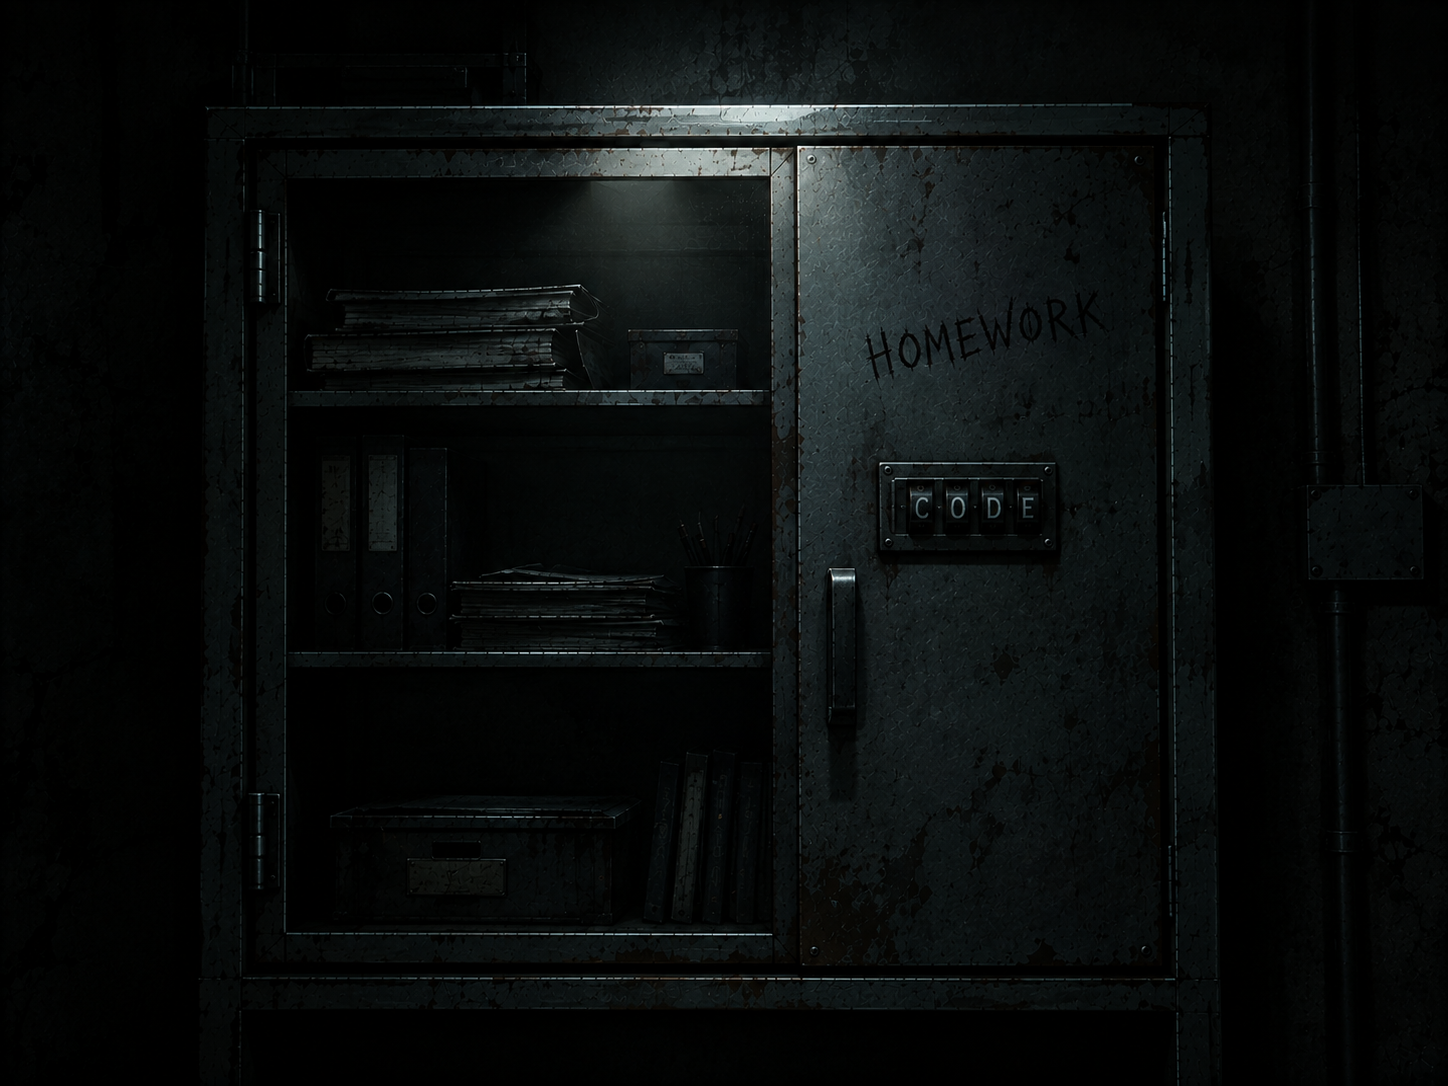
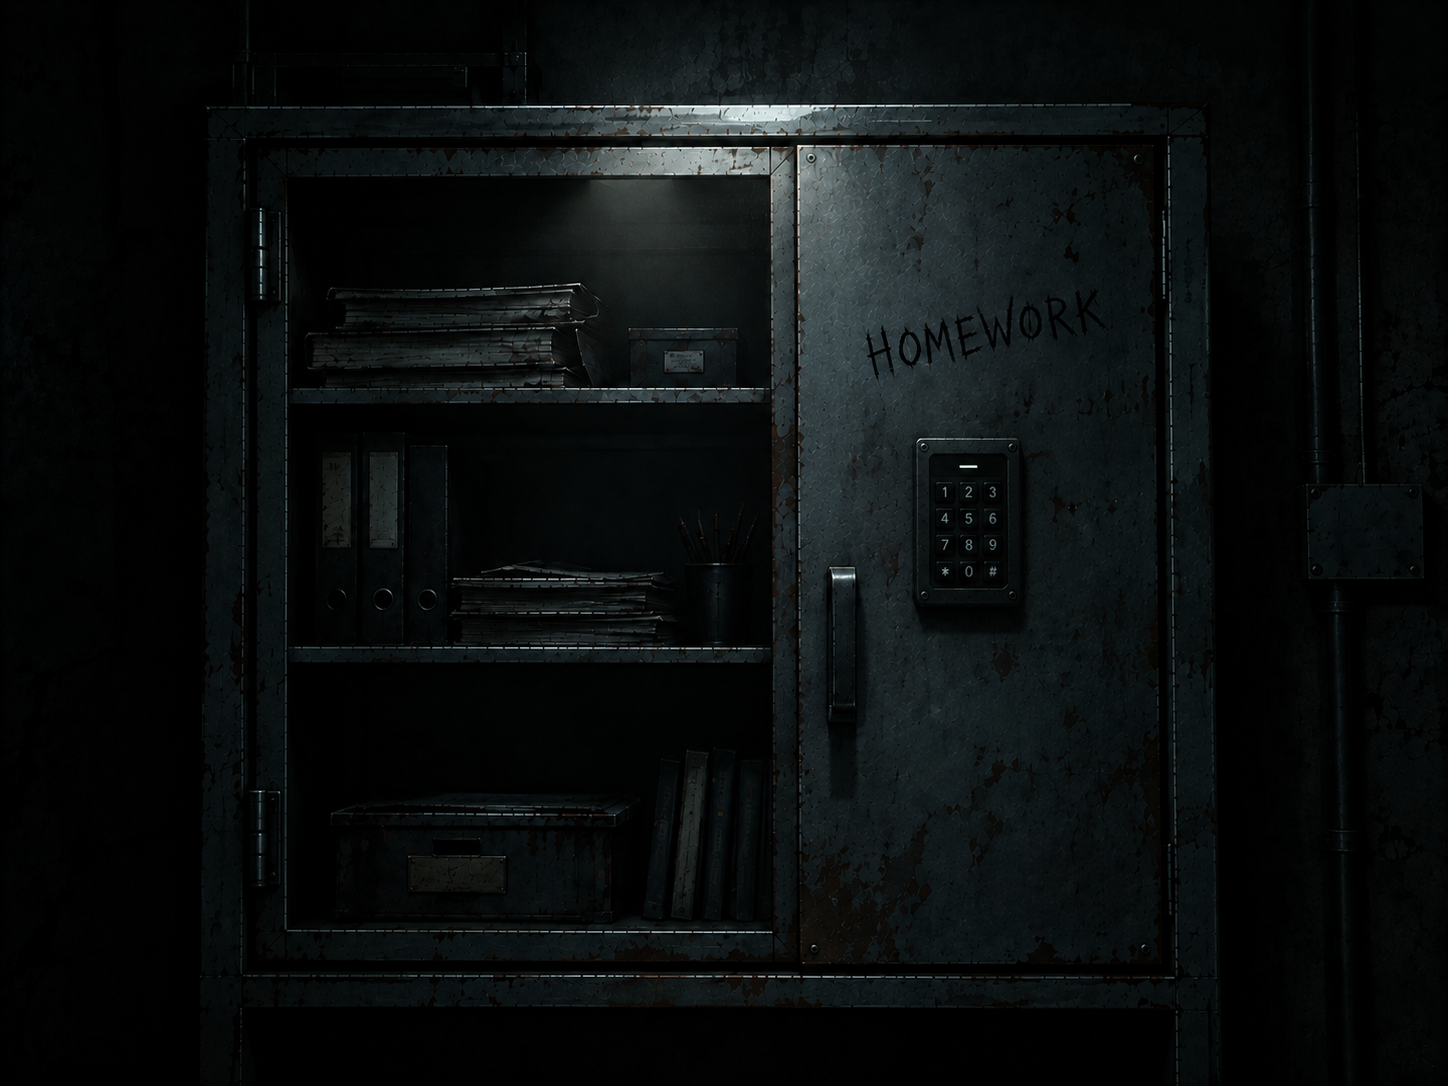
added homework and code input to ghostroom and added images

diff --git a/Rooms/ghostRoom.py b/Rooms/ghostRoom.py
@@ -1,3 +1,4 @@
+
 import pygame
 import UI.uiElements as u
 
@@ -6,15 +7,51 @@ pygame.mixer.init()
 
 CABINET_CODE = "4537"
 
+# where the typed digits get drawn on top of gr.cabinet.homework.png -> tune to your art
+CODE_DISPLAY_POS = (615, 205)
 
 class GhostRoom:
     def __init__(self, screen):
-        self.default_image = u.load_image("assets/gr.ghostRoom.png", screen.get_size())
-        self.current_image = self.default_image
         self.screensize = screen.get_size()
         self.screen = screen
-        self.conversation = 0
         self.next_room = None
+
+        self.room_image = u.load_image("assets/gr.ghostRoom.png", self.screensize)
+        self.room_empty = u.load_image("assets/gr.ghostRoom.no.teacher.png", self.screensize)
+        self.current_image = self.room_image
+
+        self.teacher_image = u.load_image("assets/gr.teacher.png", self.screensize)
+        self.no_teacher_image = u.load_image("assets/gr.bureau.no.teacher.png", self.screensize)
+
+        self.whiteboard_image = u.load_image("assets/gr.whiteboard.4537.png", self.screensize)
+
+        self.cabinet_locked_image = u.load_image("assets/gr.cabinet.homework.png", self.screensize)
+        self.cabinet_open_image = u.load_image("assets/gr.cabinet.open.keypad.png", self.screensize)
+
+        self.font = pygame.font.Font(None, 28)
+        self.chatbox = u.Chatbox(10,10,500, 90,self.font) #change width and height of chatbox
+        self.codeFont = pygame.font.Font(None, 56)
+
+        self.dialogue = [
+            "Ghost > Ohh a student has finally come to class.",
+            "Ghost > I have been waiting for the homework since I died.",
+            "Ghost > Only by handing in your homework can you leave.",
+        ]
+        self.line_count = 0
+
+        self.inventory = [] # how to link to player inventory?
+        self.homework_taken = False #so you can't take the homework
+        self.homework_spot = pygame.Rect(600, 400, 56, 56)
+
+        self.task_done = False #memory for has the homework been handed in
+
+        self.stone_collected = False
+        self.stone_spot = pygame.Rect(750, 400, 44, 44) # position stone on empty desk
+
+        self.cabinet_unlocked = False
+        self.code_entry = "" #string that grows as you type
+        self.keypad_open  = False
+
         self.buttons = [
             u.Button(930, 350, 140, 50, "Search", self.teacher),
             u.Button(580, 50, 140, 50, "Search", self.whiteboard),
@@ -24,22 +61,133 @@ class GhostRoom:
         self.current_buttons = self.buttons
         self.returnr_buttons = [
             u.Button(1000, 520, 140, 50, "return", self.returnr)]
+        self.teacher_buttons = [
+             u.Button(830, 600, 140, 50, "Talk", self.talk),
+             u.Button(830, 660, 140, 50, "Give", self.give_homework),
+                               ] + self.returnr_buttons
+        self.cabinet_buttons = [
+            u.Button(550 ,600, 180, 50, "Take Homework", self.take_homework),
+        ] + self.returnr_buttons
+        self.stone_buttons = [
+            u.Button(830,600,180,50, "Take stone", self.collect_stone)
+        ] + self.returnr_buttons
+        self.cabinet_locked_buttons = [
+            u.Button(550,600,180,50,"Enter Code",self.open_keypad)
+        ] + self.returnr_buttons
+        self.keypad_buttons = [
+            u.Button(1000,520,140,50, "Back", self.close_keypad)
+        ]
+
+
+
+    def talk(self):
+        if self.task_done:
+            self.chatbox.say("...") # feels unnecessary
+        elif self.line_count < len(self.dialogue):
+            self.chatbox.say(self.dialogue[self.line_count])
+            self.line_count += 1
+        elif "homework" in self.inventory:
+            self.chatbox.say("Ghost . Is that my homework? HAND IT OVER")
+        else:
+            self.chatbox.say("Ghost > No homework, no leaving. Search the room")
 
 
     def teacher(self):
-        self.current_image = u.load_image("assets/gr.teacher.png", self.screensize)
+        if self.task_done:
+            self.current_image= self.no_teacher_image
+            if self.stone_collected:
+                self.current_buttons = self.returnr_buttons # nobody to talk to so only return
+                self.chatbox.say("You > The classroom is empty. He is really gone")
+            else:
+                self.current_buttons = self.stone_buttons
+                self.chatbox.say("You > He left something behind on the desk              ")
+        else:
+            self.current_image = self.teacher_image
+            self.current_buttons = self.teacher_buttons
+            self.talk() #line appears moment you walk up, talk button advances it after wards
+
+    def collect_stone(self):
+        if self.stone_collected:
+            self.chatbox.say("You > I already collected the stone in my inventory")
+            return
+        self.stone_collected = True
+        self.inventory.append("white stone")
+        self.chatbox.say("You > A white stone... one step closer to freedom")
         self.current_buttons = self.returnr_buttons
 
 
     def cabinet(self):
-        print("cabinet")
-        self.current_image = u.load_image("assets/gr.cabinet.homework.png", self.screensize)
+        self.keypad_open = False #always start on the plain cabinet screen
+        if self.cabinet_unlocked:
+            self.current_image = self.cabinet_open_image #closed or open picture?
+            if self.homework_taken:
+                self.current_buttons = self.returnr_buttons
+            else:
+                self.current_buttons = self.cabinet_buttons
+        else:
+            self.current_image = self.cabinet_locked_image
+            self.current_buttons = self.cabinet_locked_buttons
+            self.chatbox.say("You > It is locked there is a keypad on the front")
+
+    def open_keypad(self):
+        self.keypad_open = True
+        self.code_entry = ""
+        self.current_buttons = self.keypad_buttons
+        self.chatbox.say("You > Type the four digit code into the keyboard")
+
+    def close_keypad(self):
+        self.keypad_open = False
+        self.code_entry = ""
+        self.current_buttons = self.cabinet_locked_buttons
+
+    def press_digit(self, digit):
+        if len(self.code_entry) >= 4:
+            return # already full
+        self.code_entry = self.code_entry + digit
+        if len(self.code_entry) == 4:
+            self.check_code() #check by itself once four digits are in
+
+    def check_code(self):
+        if self.code_entry == CABINET_CODE:
+            self.cabinet_unlocked = True
+            self.keypad_open = False
+            self.current_image = self.cabinet_open_image
+            self.current_buttons = self.cabinet_buttons
+            self.chatbox.say("You > 'clunk' the cabinet swings open")
+        else:
+            self.code_entry = ""
+            self.chatbox.say("You > Wrong code, try again :)")
+
+
+    def take_homework(self):
+        if self.homework_taken:
+            self.chatbox.say("You > The cabinet is empty now")
+            return
+        self.homework_taken = True
+        self.inventory.append("homework")
+        self.chatbox.say("You > Old homework covered in dust, this must be it")
         self.current_buttons = self.returnr_buttons
+
+    def give_homework(self):
+        if self.task_done:
+            self.chatbox.say("You > I already gave it to the teacher")
+            return
+        if "homework" not in self.inventory:
+            self.chatbox.say("You > I don't have the homework yet")
+            return
+        self.inventory.remove("homework")
+        self.task_done = True
+        self.chatbox.say("You > Here is your homework")
+        self.chatbox.say("Ghost . At last... class dismissed")
+        self.current_image = self.no_teacher_image
+        self.current_buttons = self.stone_buttons
 
 
     def whiteboard(self):
-        self.current_image = u.load_image("assets/gr.whiteboard.4537.png", self.screensize)
+        self.current_image = self.whiteboard_image
         self.current_buttons = self.returnr_buttons
+
+
 
 
     def returnc(self):
@@ -47,7 +195,10 @@ class GhostRoom:
 
 
     def returnr(self):
-        self.current_image = self.default_image
+        if self.task_done:
+            self.current_image = self.room_empty
+        else:
+            self.current_image = self.room_image
         self.current_buttons = self.buttons
 
 
@@ -55,9 +206,31 @@ class GhostRoom:
         for b in self.current_buttons:
             b.handle_event(event)
 
+        if self.keypad_open and event.type == pygame.KEYDOWN:
+            if event.unicode.isdigit():
+                self.press_digit(event.unicode)
+            elif event.key == pygame.K_BACKSPACE:
+                self.code_entry = self.code_entry[:-1] #everything except the last letter
+            elif event.key == pygame.K_RETURN:
+                self.check_code()
+
+
 
     def draw(self):
         self.screen.blit(self.current_image, (0, 0))
+        if self.current_image is self.no_teacher_image and not self.stone_collected:
+            pygame.draw.circle(self.screen, (245,245,245), self.stone_spot.center, self.stone_spot.w // 2)
+
+        if self.current_image is self.cabinet_open_image and not self.homework_taken:
+            pygame.draw.rect(self.screen, (235,235,235),  self.homework_spot )
+
+        if self.keypad_open:
+            shown = self.code_entry.ljust(4, "-") # "" -> "----", "45" -> "45--"
+            text = self.codeFont.render(shown, True, (0, 255,120))
+            self.screen.blit(text, CODE_DISPLAY_POS)
+
         for b in self.current_buttons:
             b.draw2(self.screen)
+
+        self.chatbox.draw(self.screen)
 
